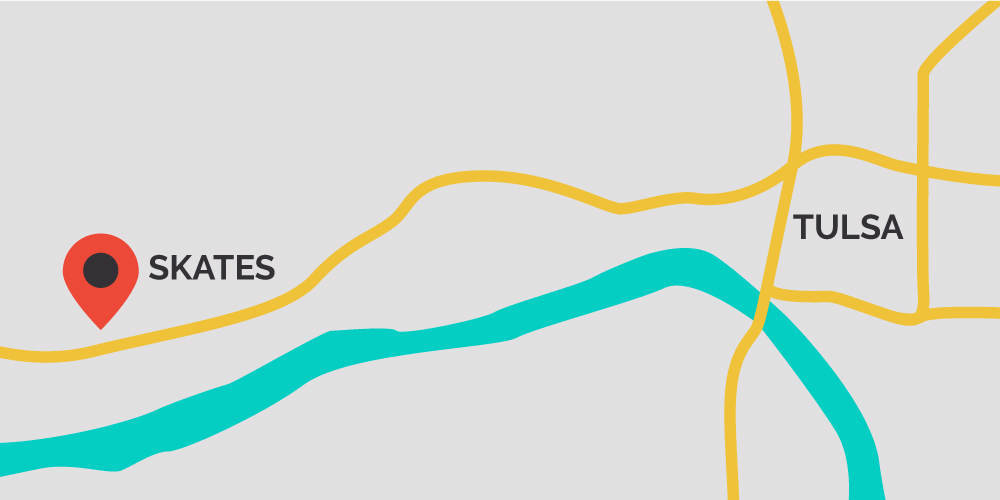
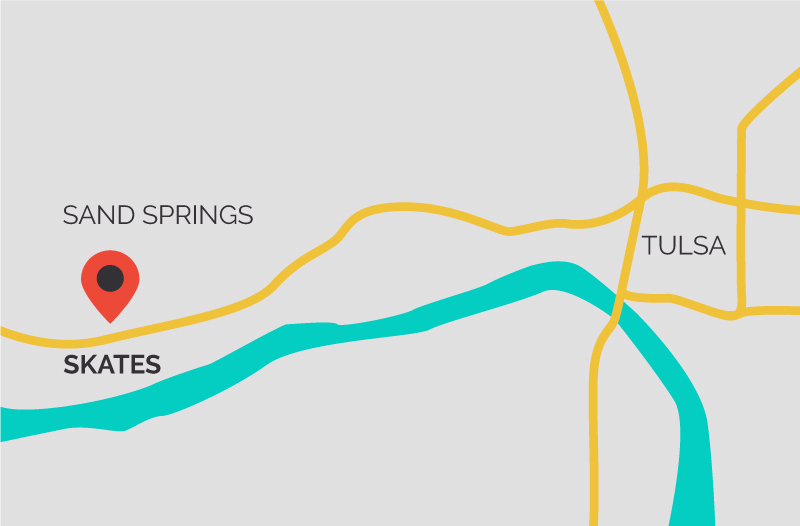
Styles and form
empty form for alex build back-end

diff --git a/index.html b/index.html
@@ -49,37 +49,105 @@
 		</ul>
 	</header>
 	<section id="AnJ">
-		<div>
+		<div class="center">
 			<img src="img/heart.svg" alt="heart" id="heart">
 			<h1>Alex + Julie</h1>
 			<h2>10-16-16</h2>
 		</div>
 	</section>
 	<section id="party">
-		<div>
+		<div class="center">
 			<img src="img/skate.svg" alt="skate" id="skate">
 			<h2>The Party</h2>
 			<div id="details">
-				<h3>Skates</h3>
-				<a href="https://goo.gl/maps/aKurvzjYKuF2">401 E Broadway Ct<br>Sand Springs, OK 74063</a>
-				<h4>Ceremony at 5:00PM<br>Skating and Dinner to follow.</h4>
-				<p>Yes! We're getting married at a skating rink. Don't worry. If you don't feel comfortable with wheels on your feet, you are not obligated to wear skates.</p>
+				<div>
+					<img src="img/map.jpg" alt="map" id="map">
+				</div>
+				<div>
+					<h3>Skates</h3>
+					<a href="https://goo.gl/maps/aKurvzjYKuF2">401 E Broadway Ct<br>Sand Springs, OK 74063</a>
+					<h4>Ceremony at 5:00PM<br>Skating and Dinner to follow.</h4>
+					<button type="button" onclick="showMore()">More Info</button>
+				</div>
 			</div>
-			<!-- <img src="img/map.jpg" alt="map" id="map"> -->
 		</div>
 	</section>
-	<div id="rsvp">
+	<section id="more-info" class="hidden">
+		<div class="center">
+			<p>Its true. We're getting married at a skating rink! Don't worry. If you don't feel comfortable with wheels on your feet, you are not obligated to wear skates.</p>
+			<p>If you won’t wear skates, please avoid wearing heels on the wood floor.The ceremony will take place on the skating rink. After dinner, the floor will open up for dancing and skating.</p>
+			<p>If  you have any questions, feel free to email us at Hello@alexandjuliewedding.com</p>
+		</div>
+	</section>
+	<!-- <div id="rsvp">
 		<iframe src="https://docs.google.com/a/alexandjulie.wedding/forms/d/e/1FAIpQLScqS215F5AQH4oh-7tLTUP0p9FfBj2ImdcTei7kMgUsBYUHKg/viewform?embedded=true" width="100%" height="1300px" frameborder="0" marginheight="0" marginwidth="0" scrolling="auto">Loading...</iframe>
-	</div>
+	</div> -->
+	<section id="rsvp">
+		<div class="center">
+			<h2>RSVP</h2>
+			<form>
+				<fieldset>
+					<dl>
+						<div>
+							<dt>Full Name</dt>
+							<dd>
+								<input class="text-field" type="text" name="name">
+							</dd>
+
+							<dt>Email Adress</dt>
+							<dd>
+								<input class="text-field" type="text" name="email">
+							</dd>
+
+							<dt>Will you attend?</dt>
+							<dd>
+								<input type="radio" name="yes-no" value="yes">Yes
+								<input type="radio" name="yes-no" value="NO">No
+							</dd>
+
+							<dt>Will you bring a friend?
+								<aside>We're keeping this small. Please only bring one friend.</aside>
+							</dt>
+							<dd>
+								<input type="radio" name="plusyes-no" value="yes">Yes
+								<input type="radio" name="plusyes-no" value="NO">No
+							</dd>
+						</div>
+
+						<div>
+							<dt>Dietary Restrictions or allergies?</dt>
+							<dd><input type="checkbox" name="diet" value="Vegetarian"/>Vegetarian<br>
+								<input type="checkbox" name="diet" value="Vegan"/>Vegan<br>
+								<input type="checkbox" name="diet" value="Gluten Free"/>Gluten Free<br>
+								<input type="checkbox" name="diet" value="Kosher"/>Kosher<br>  				
+								<input type="checkbox" name="diet" value="other"/>Other
+								<input class="text-field" type="text" name="otherText">
+							</dd>
+
+							<dt>Notes</dt>
+							<dd>
+								<input id="notes" class="text-field" type="text" name="message">
+							</dd>
+						</div>
+
+						<div>
+							<input class="button" type="submit" value="Submit">
+						</div>
+					</dl>
+				</fieldset>
+			</form>
+		</div>
+	</section>
 	<section id="gifts">
-		<div>
+		<div class="center">
 			<h2>Gifts?</h2>
 			<h3>No, Thank You</h3>
 			<p>Your presence is the greatest gift of all.</p>
 		</div>
 	</section>
 	<footer>
-		<div><img src="img/heart-row.svg">
+		<div class="center">
+			<img src="img/heart-row.svg">
 			<h3>email us</h3>
 			<a href="mailto:hello@alexandjulie.wedding?Subject=Hello!" target="_top">hello@alexandjulie.wedding</a>
 		</div>
@@ -92,6 +160,15 @@
 			x.className += " responsive";
 		} else {
 			x.className = "topnav";
+		}
+	}
+
+	function showMore() {
+		var x = document.getElementById("more-info");
+		if (x.className === "hidden") {
+			x.className += "info";
+		} else {
+			x.className = "hidden";
 		}
 	}
 	</script>

diff --git a/css/base.css b/css/base.css
@@ -15,7 +15,28 @@ body {
 	background-color: #fff;
 	color: #333136;
 }
+fieldset {
+    display: block;
+    -webkit-margin-start: 0px;
+    -webkit-margin-end: 0px;
+    -webkit-padding-before: 0em;
+    -webkit-padding-start: 0em;
+    -webkit-padding-end: 0em;
+    -webkit-padding-after: 0em;
+    border-image-source: initial;
+    border-image-slice: initial;
+    border-image-width: initial;
+    border-image-outset: initial;
+    border-image-repeat: initial;
+    min-width: -webkit-min-content;
+    border-width: 0;
+    border-style: none;
+}
 
+div {
+	box-sizing: border-box;
+	overflow: auto;
+}
 #heart, #skate {
 	width: 30%;
 	max-width: 300px;
@@ -29,7 +50,7 @@ section {
 	position: relative;
 }
 
-section div, footer div {
+.center{
 	margin: 0 auto;
 	width: 80%;
 	padding: 6%;
@@ -71,8 +92,71 @@ a {
 	background-color: #EFC239;
 }
 
-#details {
+
+#details div, fieldset dl div{
+	position: relative;
+	display: inline-block;
+	width: 50%;
+	overflow: visible;
+	padding: 2.5%;
+	vertical-align: top;
 	text-align: left;
+	float: left;
+}
+
+#details div img {
+	width: 100%;
+}
+
+#more-info {
+	background-color: #ED4938;
+	color: #fff;
+	text-align: left;
+}
+
+button, .button {
+    background-color: #F87117;
+    border: 1px solid #ED4938;
+    border-radius: 2px;
+    color: #fff;
+    padding: 11px 20px;
+    text-transform: uppercase;
+    font-size: 0.8em;
+}
+.hidden {
+	display: none;
+}
+
+.info {
+	display: block;
+}
+
+#rsvp {
+	background-color: #03CEC2;
+}
+#rsvp h2{
+	color: #333136 ;
+}
+
+fieldset dl div:last-child {
+	float: left;
+}
+
+.text-field {
+	width: 100%;
+}
+
+dt {
+	font-weight: bold;
+}
+
+dl {
+	margin: 0 auto;
+}
+
+dd {
+	-webkit-margin-start: 0px;
+	margin: 0 0 16px;
 }
 
 header {
@@ -81,6 +165,10 @@ header {
     z-index: 999;
     width: 100%;
     background-color: #fff;
+}
+
+#notes {
+	height: 60px;
 }
 
 /* Remove margins and padding from the list, and add a black background color */
@@ -104,7 +192,7 @@ ul.topnav li a {
     display: inline-block;
     color: #333136;
     text-align: center;
-    padding: 16px 16px 10PX;
+    padding: 16px 16px 10px;
     text-decoration: none;
     transition: 0.3s;
     font-size: 1em;
@@ -133,7 +221,13 @@ footer img {
 footer a {
 	color: #fff;
 }
+@media screen and (max-width: 780px) {
+	#details div, fieldset dl div {
+		display: block;
+		width: 100%;
+}
 
+}
 @media screen and (max-width: 640px) {
 	h1 {
 		font-size: 4em;
@@ -170,6 +264,8 @@ footer a {
     display: block;
     text-align: center;
   }
+
+
 }
 
 
